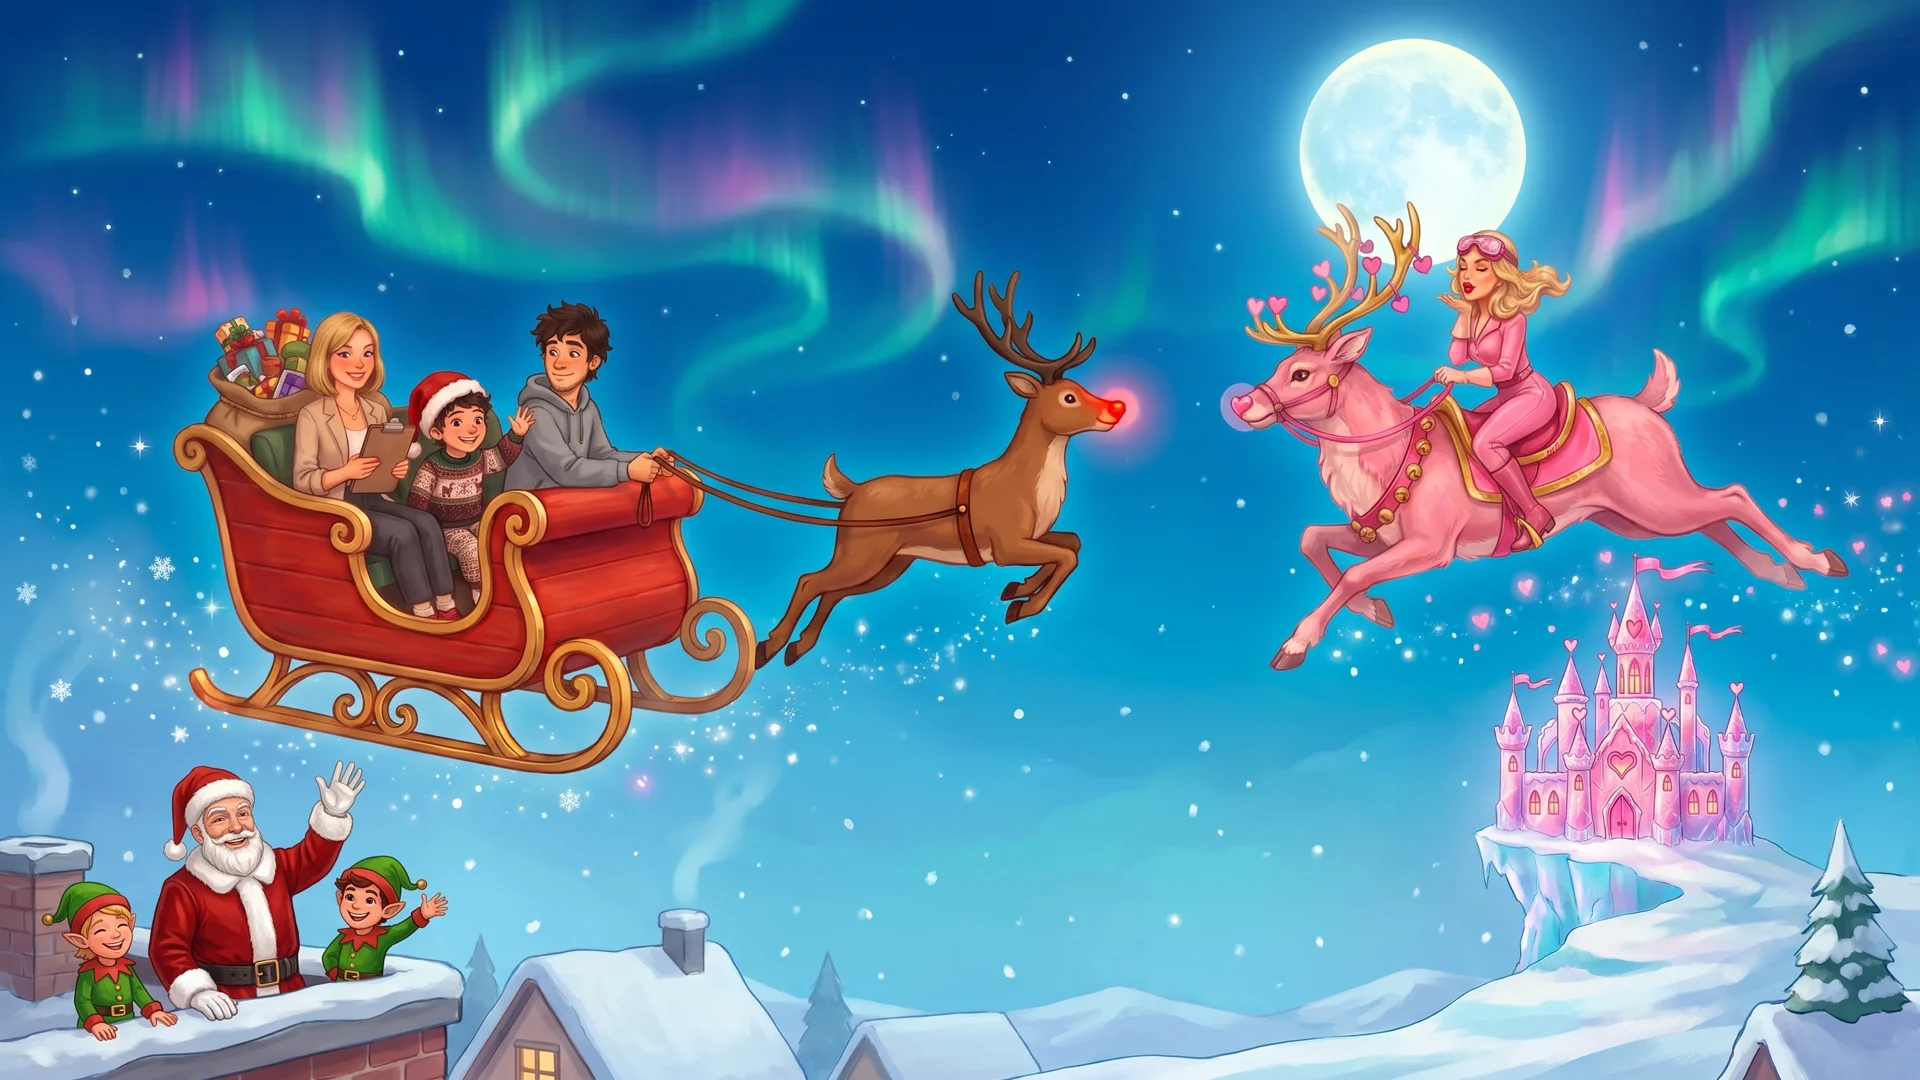
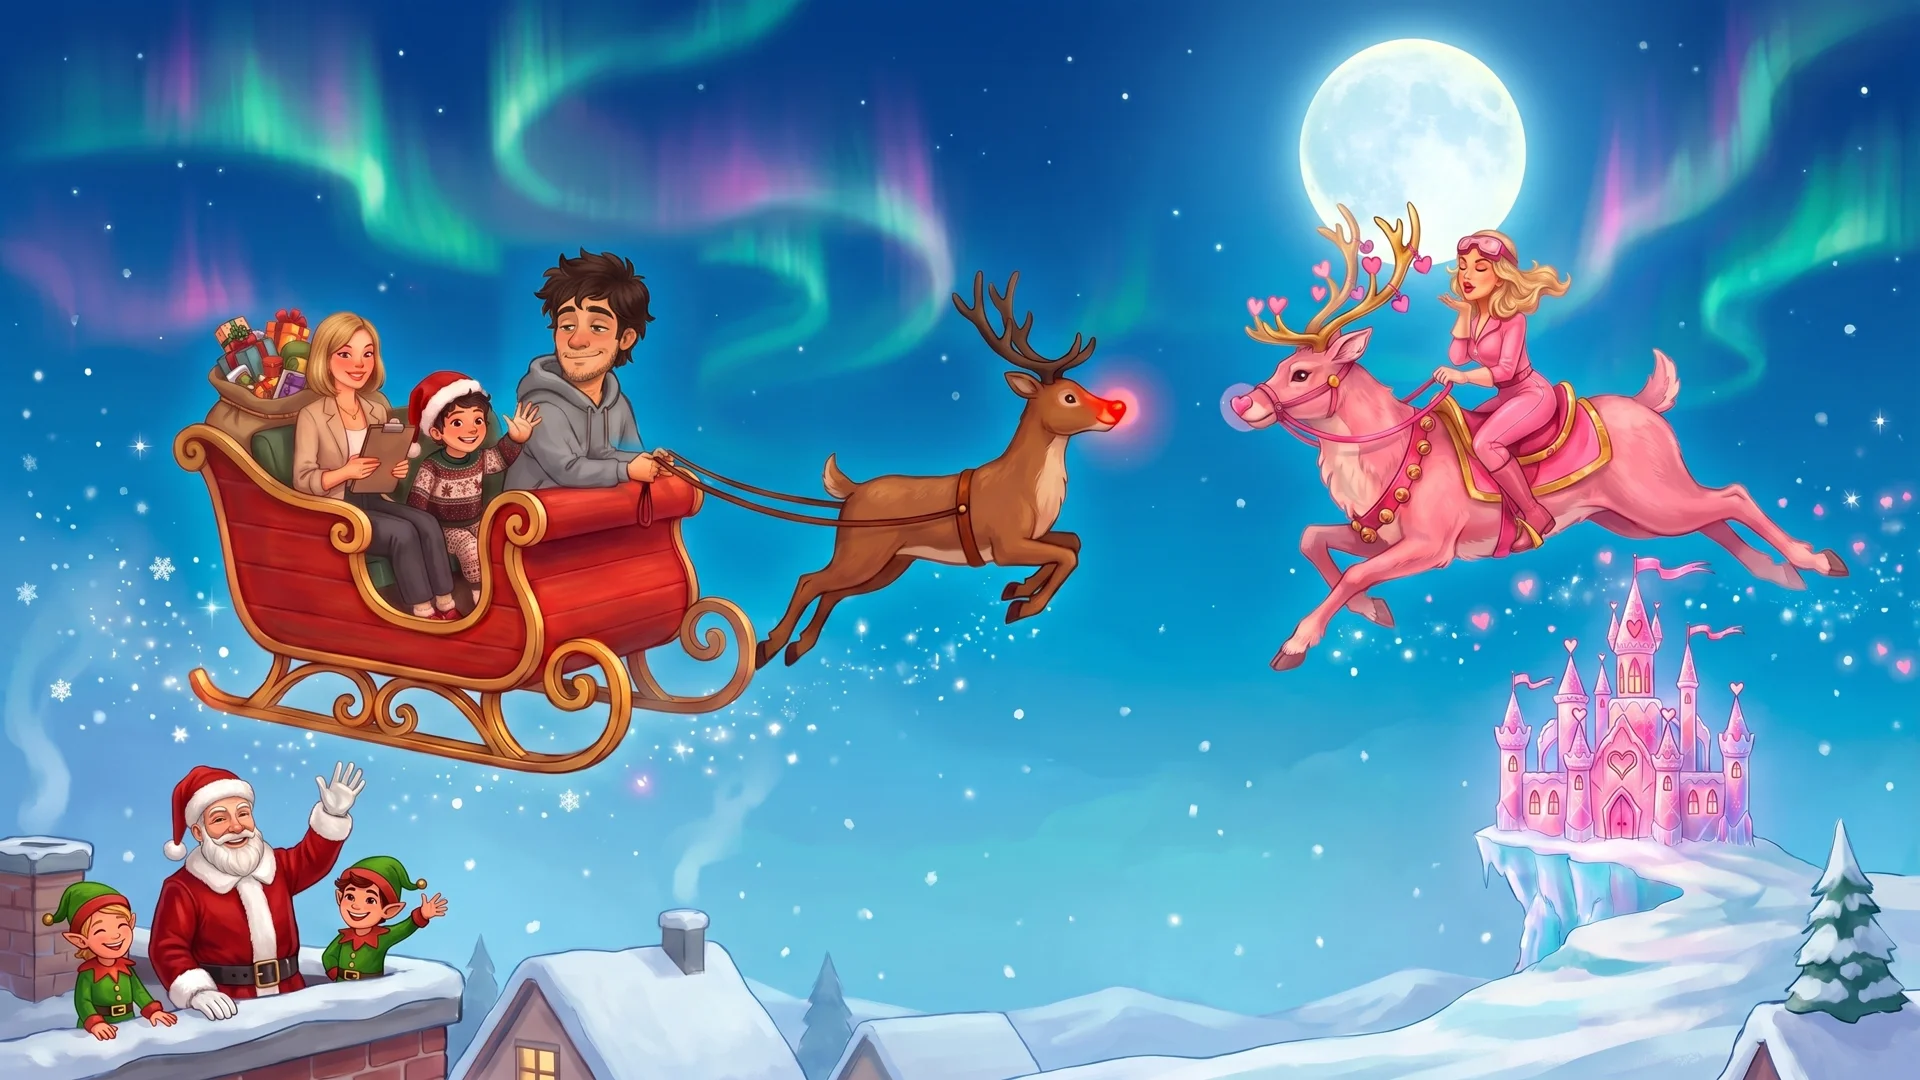
Painted gift balloons with boosters inside the basket, golden booster glow, Kaczor's face on the title art
Claude-Session: https://claude.ai/code/session_016HTeTL1HdhdTLdUQNXXCi3

diff --git a/prezentowy-nalot/index.html b/prezentowy-nalot/index.html
@@ -89,7 +89,7 @@ const TOUCH=matchMedia('(pointer:coarse)').matches; if(TOUCH){ document.body.cla
 
 // ---------- assets ----------
 const IMG={}, img=n=>{ if(IMG[n]) return IMG[n]; const i=new Image(); i.src='art/'+n+'.webp'; IMG[n]=i; return i; };
-const ART=['dc_bell','dc_star','dc_snow','dc_cane','kc_glitter','kc_boa','kc_lolly','kc_chili','kc_unicorn','kc_chicken','kc_slipper','kc_fish','mg_dough','santa_suit','dream_bg','house5','house6','house7','house8','lodge2','lodge3','lodge4','ws4','ws5','pk1','pk2','pk3','d_cane','d_fence','d_fir','d_flam','d_gifts','d_heart','d_icesc','d_lamp','d_ptree','d_rocks','d_snowman','d_stump','d_xtree','h_clock','mar_left','h_table','h_lights','h_stocking','h_cookies','fin_throne','fin_santa','fin_sauna','bg_palace','inez_deer','inez_stand','throne','h_room','h_sofa_sleep','h_sofa','h_kaka','h_kaka_cheer','h_mik','h_tree','h_presents','arcade','bg_night','sleigh','plane_inez','plane_gay','plane_grinch','house1','house2','house3','house4','gift_red','gift_green','gift_blue','gift_purple','gift_stripe','gift_gold','candy','cookie','star','coal','kiss','phone','para_inez','para_gay','para_grinch','face_kaka','face_kaczor','face_mikolaj','face_inez','bg_forest','tree1','tree2','tree3','lodge','sett','beaver','badger','plane_goblin','landing','mar_idle','tent_in','family','ck_star','ck_heart','ck_tree','ck_deer','ck_peace','pr_feather','pr_cone','dreamcatcher','plate','garland','village','cottage_in','jugo','gay_cook','santa','f_mush','f_beet','f_egg','f_sock','f_pierog','f_cake','f_disco','raven','raven_boss','raven_daze','bauble','snowball','feather','bg_pole','ws1','ws2','plane_elf','para_elf','elf_happy','pole_land','santa_stand','fab_in','cannon','part_boiler','part_sight','part_hopper'];
+const ART=['gift_balloon','dc_bell','dc_star','dc_snow','dc_cane','kc_glitter','kc_boa','kc_lolly','kc_chili','kc_unicorn','kc_chicken','kc_slipper','kc_fish','mg_dough','santa_suit','dream_bg','house5','house6','house7','house8','lodge2','lodge3','lodge4','ws4','ws5','pk1','pk2','pk3','d_cane','d_fence','d_fir','d_flam','d_gifts','d_heart','d_icesc','d_lamp','d_ptree','d_rocks','d_snowman','d_stump','d_xtree','h_clock','mar_left','h_table','h_lights','h_stocking','h_cookies','fin_throne','fin_santa','fin_sauna','bg_palace','inez_deer','inez_stand','throne','h_room','h_sofa_sleep','h_sofa','h_kaka','h_kaka_cheer','h_mik','h_tree','h_presents','arcade','bg_night','sleigh','plane_inez','plane_gay','plane_grinch','house1','house2','house3','house4','gift_red','gift_green','gift_blue','gift_purple','gift_stripe','gift_gold','candy','cookie','star','coal','kiss','phone','para_inez','para_gay','para_grinch','face_kaka','face_kaczor','face_mikolaj','face_inez','bg_forest','tree1','tree2','tree3','lodge','sett','beaver','badger','plane_goblin','landing','mar_idle','tent_in','family','ck_star','ck_heart','ck_tree','ck_deer','ck_peace','pr_feather','pr_cone','dreamcatcher','plate','garland','village','cottage_in','jugo','gay_cook','santa','f_mush','f_beet','f_egg','f_sock','f_pierog','f_cake','f_disco','raven','raven_boss','raven_daze','bauble','snowball','feather','bg_pole','ws1','ws2','plane_elf','para_elf','elf_happy','pole_land','santa_stand','fab_in','cannon','part_boiler','part_sight','part_hopper'];
 ART.forEach(img);
 let ANIM={}, HOUSES={}, TREES={};
 const ready=Promise.all([fetch('art/anim/anim.json').then(r=>r.json()).then(j=>{ ANIM=j; for(const k in j) ANIM[k].img=img('anim/'+k); }).catch(()=>{}),
@@ -419,8 +419,11 @@ function draw(){
   // happy beavers and badgers pop up with their present
   pops.forEach(q=>{ const up=Math.min(1,q.t*3), a=q.t>1.7?Math.max(0,1-(q.t-1.7)*2):1; drawImg(q.img,q.x,q.y-30-up*55,86,Math.sin(q.t*6)*.06,a); });
   // items
-  items.forEach(it=>{ c.globalAlpha=it.t>12?(Math.floor(it.t*8)%2?.3:1):1; const gl=c.createRadialGradient(it.x,it.y,4,it.x,it.y,34); gl.addColorStop(0,'rgba(255,240,180,.7)'); gl.addColorStop(1,'rgba(255,240,180,0)'); c.fillStyle=gl; c.fillRect(it.x-34,it.y-34,68,68); if(it.balloon){ c.strokeStyle='rgba(255,255,255,.7)'; c.lineWidth=1.5; c.beginPath(); c.moveTo(it.x,it.y-26); c.quadraticCurveTo(it.x+6,it.y-44,it.x,it.y-58); c.stroke(); c.fillStyle='#e8383d'; c.beginPath(); c.ellipse(it.x,it.y-80,20,24,0,0,6.29); c.fill(); c.fillStyle='rgba(255,255,255,.5)'; c.beginPath(); c.ellipse(it.x-7,it.y-88,5,8,-.4,0,6.29); c.fill(); }
-    drawImg(it.kind,it.x,it.y,it.kind==='candy'?26:44); c.globalAlpha=1; });
+  items.forEach(it=>{ c.globalAlpha=it.t>12?(Math.floor(it.t*8)%2?.3:1):1; if(it.balloon){ // painted gift balloon: balloon and basket behind, the booster inside, then the basket's front wall over the booster's lower half
+      const im=IMG.gift_balloon; if(ok(im)){ const h=150, w=h*im.naturalWidth/im.naturalHeight, k=h/im.naturalHeight, rim=203; /* the basket's front wall starts here in gift_balloon.webp; the opening is between y≈188 and 203 */ c.save(); c.translate(it.x,it.y+35); c.rotate(Math.sin(it.t*2.2)*.06);
+        c.drawImage(im,-w/2,-h,w,h); drawImg(it.kind,0,-h+rim*k-(it.kind==='candy'?4:2),it.kind==='candy'?30:38); c.drawImage(im,0,rim,im.naturalWidth,im.naturalHeight-rim,-w/2,-h+rim*k,w,(im.naturalHeight-rim)*k); c.restore(); } }
+    else { const gl=c.createRadialGradient(it.x,it.y,4,it.x,it.y,30); gl.addColorStop(0,'rgba(255,200,80,.35)'); gl.addColorStop(1,'rgba(255,200,80,0)'); c.fillStyle=gl; c.fillRect(it.x-30,it.y-30,60,60); drawImg(it.kind,it.x,it.y,it.kind==='candy'?26:44); }
+    c.globalAlpha=1; });
   // planes falling
   flyers.forEach(f=>{ const s=Math.min(1,.3+f.t*2.5); drawImg(f.img,f.x,f.y,f.w*s,f.fall?f.t*5:Math.sin(f.t*1.8)*.12); });
   dusts.forEach(d=>{ const k=d.t/1.1; d.puffs.forEach(p=>{ c.globalAlpha=Math.max(0,(1-k))*.85; c.fillStyle=`rgb(${p.sh},${p.sh-8},${p.sh-20})`; c.beginPath(); c.arc(d.x+p.dx+p.vx*d.t,d.y+p.dy+p.vy*d.t,p.r*(.6+k*.8),0,6.29); c.fill(); }); }); c.globalAlpha=1;

diff --git a/prezentowy-nalot/README.md b/prezentowy-nalot/README.md
@@ -108,6 +108,7 @@ The title screen gets "Różowy Pałac", "Wieża luster" and "Sala tronowa" butt
 - Warehouse sound pass: the elves' speech bubbles are voiced (17 lines, ElevenLabs "Minty The Holiday Elf", quieter with distance), little Mikołaj — the one small enough to sneak between the shelves — whispers six lines (start, key, hiding in a box, alarm, caught, gate open), elves' footsteps are heard nearby, and the throw sound that was missing is in place, plus sounds for the key, the box, the alarm and being caught.
 - Character switching now also works in the tower; the beam duel starts exactly at the noses of Rudolf and the pink reindeer; the maze hero is redrawn as Mikołaj in his own red sweater and Santa hat (Gemini + 16-frame Ludo sneak cycle); elf cages in the platformer are smaller, in scale with the characters.
 - Title screen redrawn (Gemini) with the current cast: the family in the sleigh with Rudolf, Inez on her Pink Reindeer, the Pink Palace, and Santa with elves on a rooftop. Title-menu buttons follow the story order (tent and cottage added, Ranking last). Kaczor's sauna mouths redone over a larger, correctly placed area.
+- Gift balloons are painted (Gemini): a red balloon with a wicker basket, the booster sits inside the basket (the front wall is drawn again over it). Plain boosters have a soft golden glow instead of a pale disc. Kaczor's face on the title art redrawn in close-up to match his portrait.
 - Direct links: `?play=1..4` starts a shoot 'em up level, `?boss=1..4` jumps to its boss (`?deer` still works); platformer `wioska/?level=1..3`, with `&boss` straight to the General of the Elves or Inez in the tower.
 - Performance (Macs): all pages cap drawing at ~60 fps (ProMotion displays no longer render twice as often), the main game starts at 1.5× resolution instead of 2× on Retina and steps down to 1× if frames run slow, and the star shield uses a canvas shadow instead of stacked CSS filters.
 
